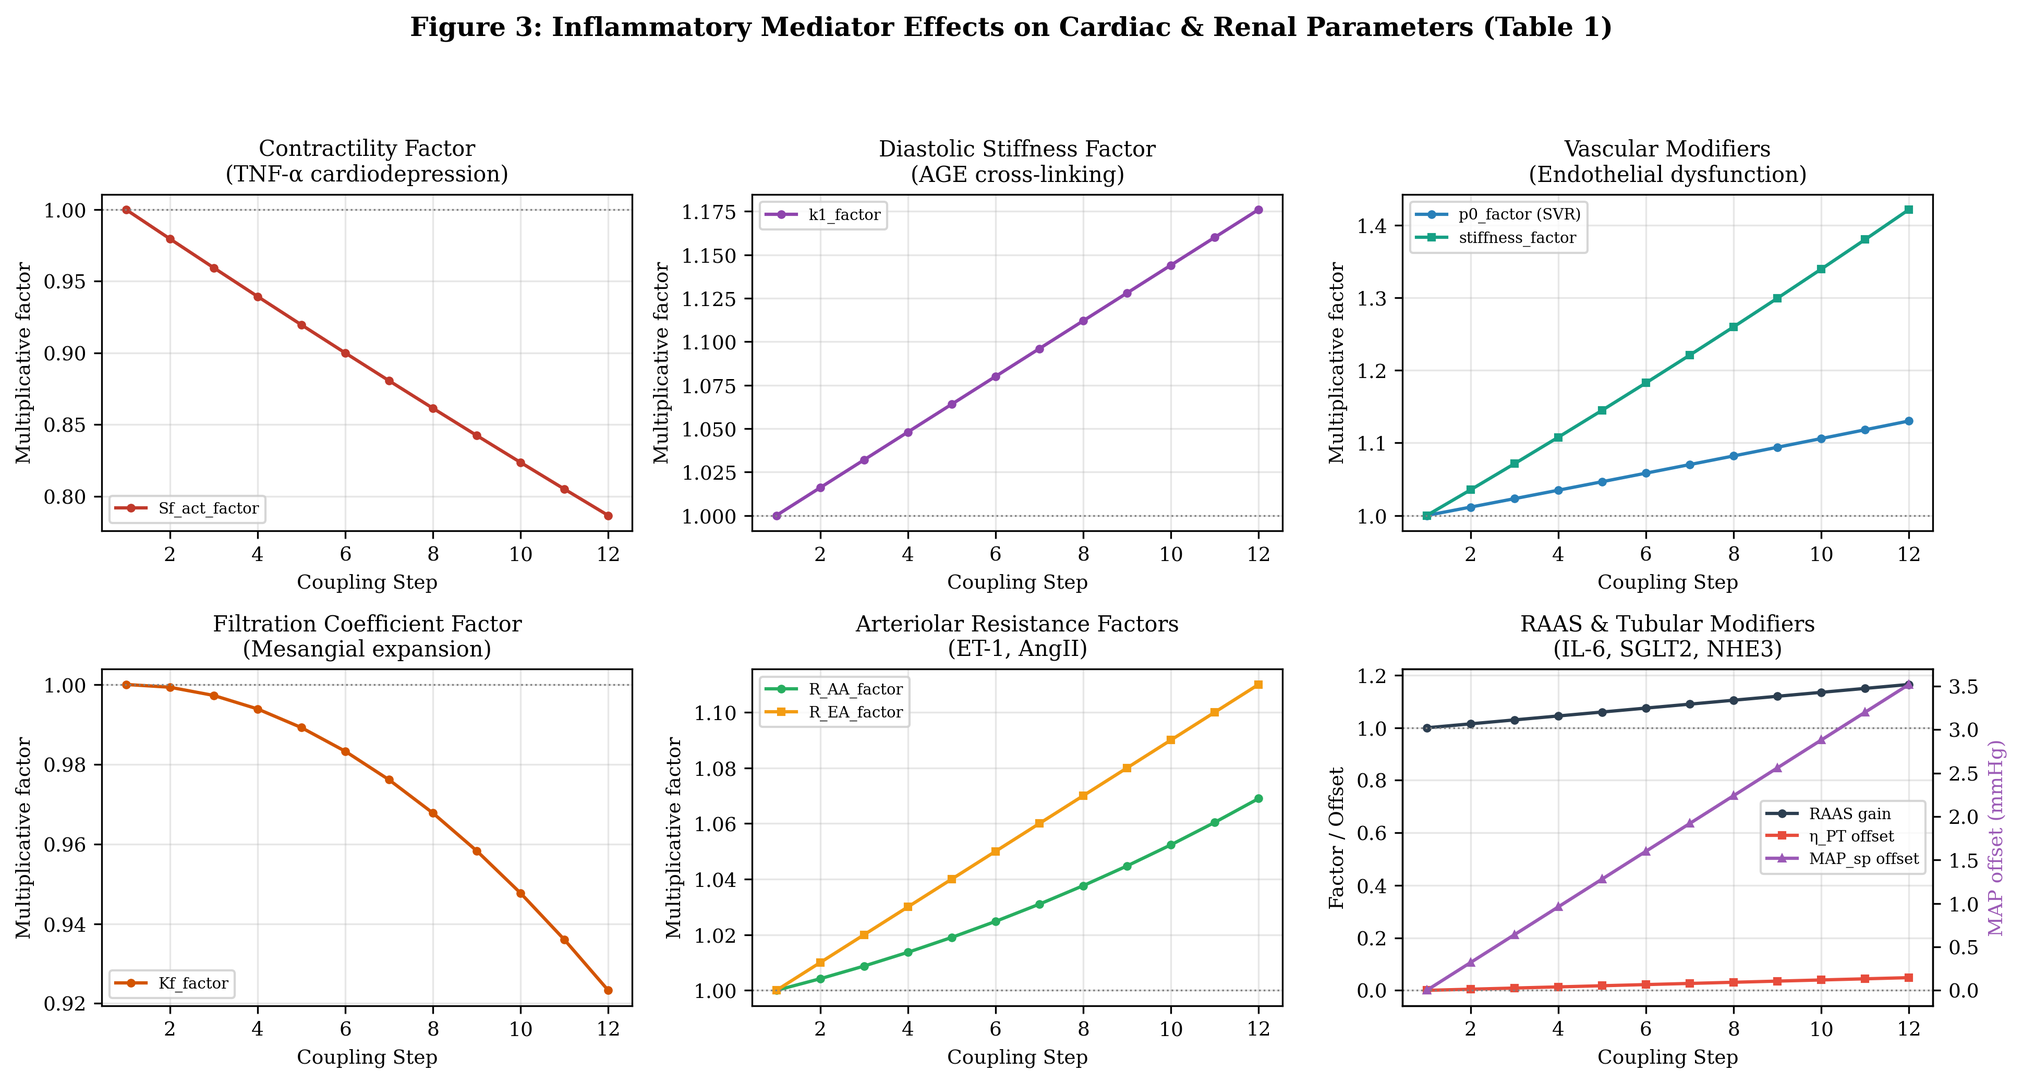
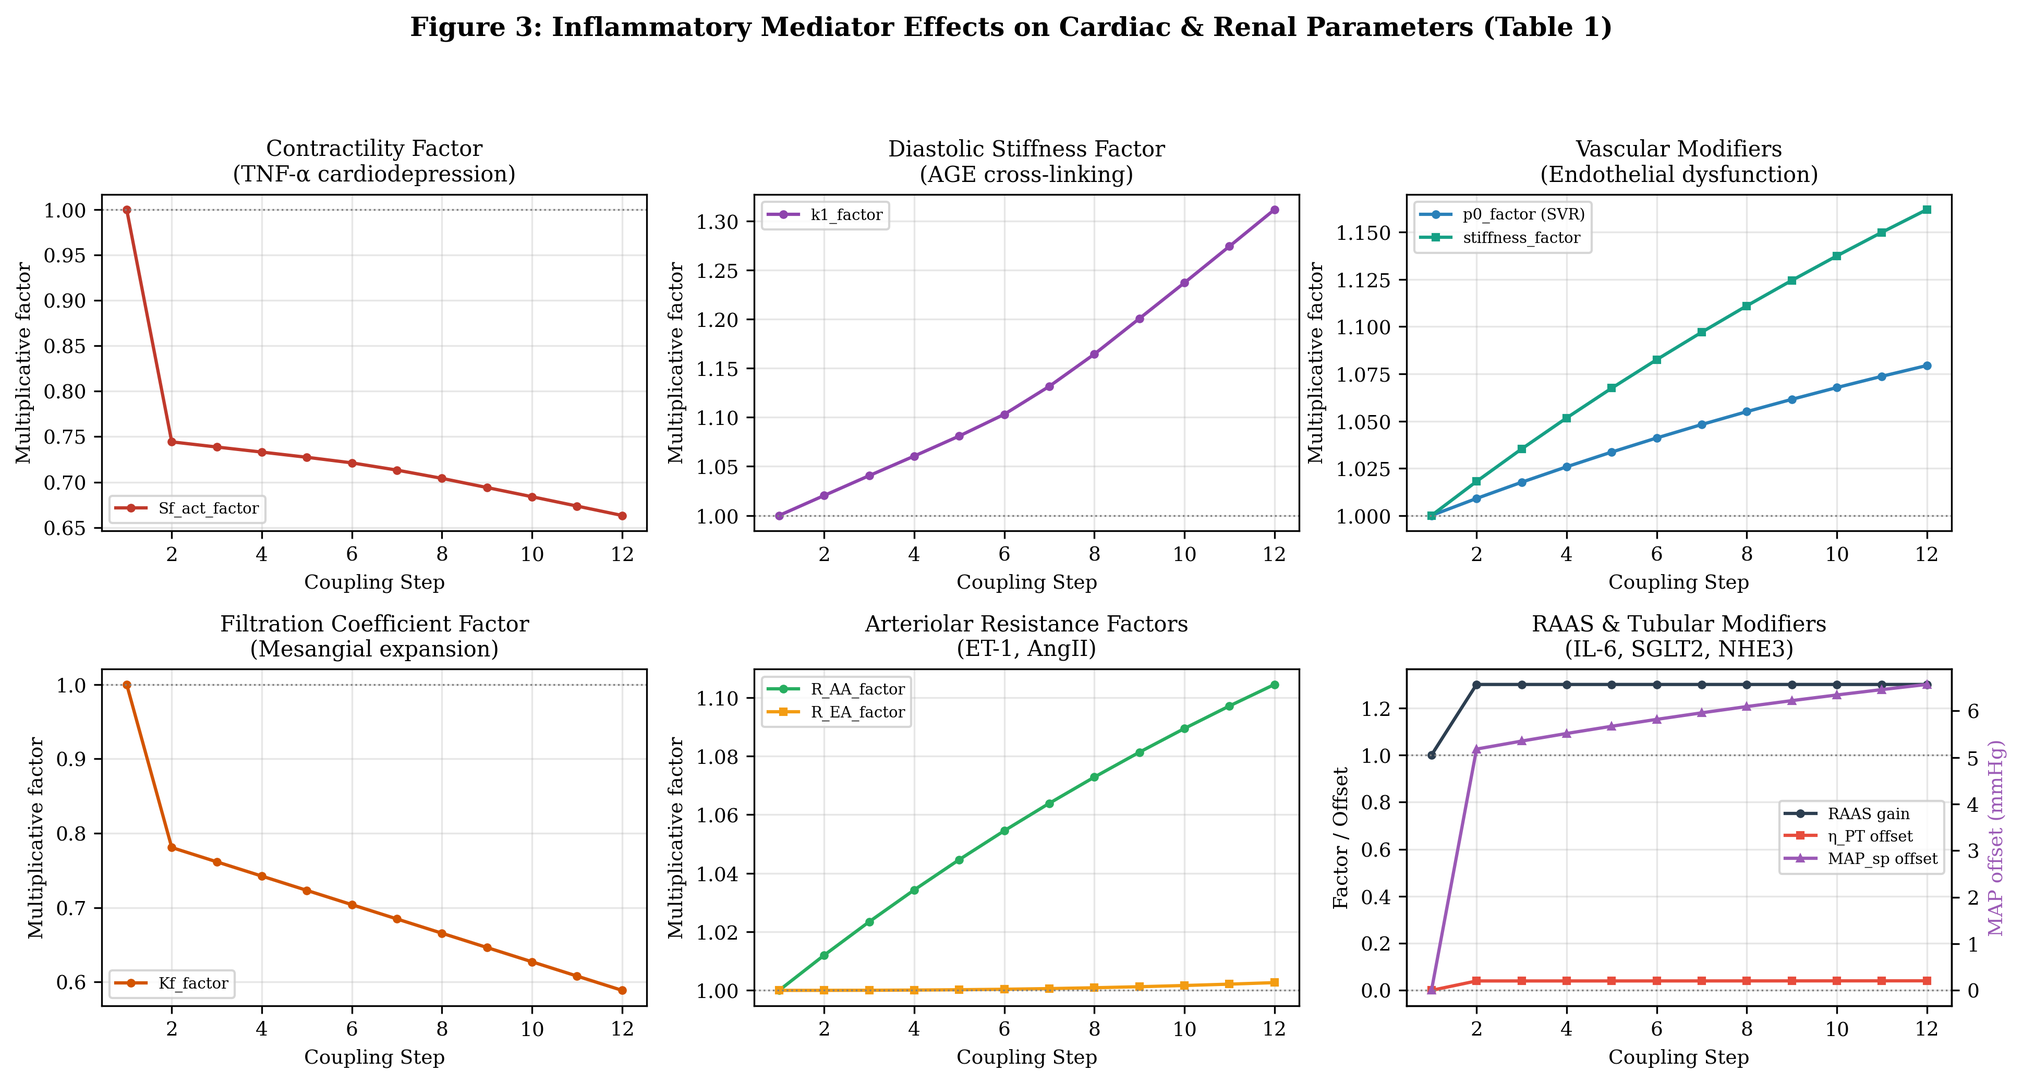
full ODE implemented. inflammation scale now taking inputs from the organs.

diff --git a/cardiorenal_coupling.py b/cardiorenal_coupling.py
@@ -797,30 +797,28 @@ class InflammatoryState:
     eta_PT_offset: float = 0.0        # Proximal tubule Na reabsorption offset (Table 1: NHE3 + SGLT2 effects)
     MAP_setpoint_offset: float = 0.0  # Pressure-natriuresis curve rightward shift [mmHg] (Table 1)
 
-    # ── Future dynamic state variables (for full ODE version) ────────────
-    # These are commented out in the simple version but ready for
-    # activation when the full dynamic inflammatory model is enabled.
-    # myocardial_fibrosis_volume: float = 0.0           # Fraction of myocardium replaced by fibrosis
-    # endothelial_dysfunction_index: float = 0.0        # NO bioavailability reduction
-    # renal_tubulointerstitial_fibrosis: float = 0.0    # Fraction of nephrons lost to fibrosis
-    # AGE_accumulation: float = 0.0                     # Advanced glycation end-product burden
+    # ── Dynamic state variables (full ODE version) ───────────────────────
+    # These evolve via Euler integration in update_inflammatory_state()
+    # when use_ode=True. Sources: organ damage signals. Sinks: clearance.
+    myocardial_fibrosis_volume: float = 0.0           # Fraction of myocardium replaced by fibrosis [0-1]
+    endothelial_dysfunction_index: float = 0.0        # NO bioavailability reduction [0-1]
+    renal_tubulointerstitial_fibrosis: float = 0.0    # Fraction of nephrons lost to fibrosis [0-0.95]
+    AGE_accumulation: float = 0.0                     # Advanced glycation end-product burden [0+]
 
 
 def update_inflammatory_state(
     state: InflammatoryState,
     inflammation_scale: float,
     diabetes_scale: float,
-    # ── Inputs from heart/kidney for future ODE version ──────────────
-    # These parameters are commented out in the simple version but show
-    # the interface for the full dynamic ODE model where organ damage
-    # signals drive inflammatory state evolution.
-    # GFR: float = 120.0,           # kidney damage -> uremic inflammation
-    # EDP: float = 10.0,            # cardiac congestion -> inflammation
-    # aldosterone_factor: float = 1.0,  # RAAS -> pro-inflammatory
-    # P_glom: float = 60.0,         # glomerular pressure -> podocyte stress
-    # CVP: float = 3.0,             # venous congestion -> renal back-pressure
-    # MAP: float = 93.0,            # mean arterial pressure -> shear stress
-    # dt_hours: float = 6.0,        # integration timestep
+    # ── Inputs from heart/kidney for ODE version ─────────────────────
+    GFR: float = 120.0,           # kidney damage -> uremic inflammation
+    EDP: float = 10.0,            # cardiac congestion -> inflammation
+    aldosterone_factor: float = 1.0,  # RAAS -> pro-inflammatory
+    P_glom: float = 60.0,         # glomerular pressure -> podocyte stress
+    CVP: float = 3.0,             # venous congestion -> renal back-pressure
+    MAP: float = 93.0,            # mean arterial pressure -> shear stress
+    dt_hours: float = 6.0,        # integration timestep
+    use_ode: bool = False,        # if True, use full ODE; if False, use simple parametric
 ) -> InflammatoryState:
     """
     Update the inflammatory mediator layer.
@@ -988,119 +986,105 @@ def update_inflammatory_state(
     state.MAP_setpoint_offset = max(5.0 * infl, 8.0 * diab)
 
     # ==================================================================
-    # FULL ODE VERSION -- commented out for iterative verification
+    # FULL ODE VERSION — organ damage signals drive inflammation
     # ==================================================================
-    #
-    # When ready to activate, uncomment this block, enable the state
-    # variables in InflammatoryState, and pass GFR/EDP/aldosterone/etc
-    # from the coupling loop. This version models inflammation as a
-    # dynamic state variable with sources (organ damage signals) and
-    # sinks (immune clearance), reaching steady state over weeks-months.
-    #
-    # # ── Rate constants (to be calibrated via sensitivity analysis) ──
-    # k_uremic = 0.01           # uremic toxin -> inflammation [1/hr per (1/GFR)]
-    # k_congestion = 0.005      # cardiac congestion -> inflammation [1/hr per mmHg]
-    # k_AGE = 0.02              # AGE accumulation -> inflammation via RAGE [1/hr]
-    # k_aldo = 0.008            # aldosterone excess -> pro-inflammatory [1/hr]
-    # k_clearance = 0.05        # hepatic / immune clearance [1/hr]
-    # k_AGE_formation = 0.001   # diabetes -> AGE accumulation rate [1/hr]
-    # k_AGE_turnover = 0.0005   # AGE cross-link turnover (very slow) [1/hr]
-    # k_fibrosis_inflam = 0.003 # inflammation -> myocardial fibrosis [1/hr]
-    # k_fibrosis_mech = 0.002   # mechanical stress -> myocardial fibrosis [1/hr per EDP ratio]
-    # k_fibrosis_turnover = 0.001  # slow collagen remodeling [1/hr]
-    # k_endoth_inflam = 0.01    # inflammation -> endothelial dysfunction [1/hr]
-    # k_endoth_shear = 0.002    # hypertension -> endothelial damage [1/hr per mmHg]
-    # k_endoth_recovery = 0.008 # endothelial repair (NO restoration) [1/hr]
-    # k_renal_inflam = 0.004    # inflammation -> tubulointerstitial fibrosis [1/hr]
-    # k_renal_pressure = 0.002  # glomerular hypertension -> podocyte loss [1/hr per mmHg]
-    # k_renal_congestion = 0.003  # venous congestion -> renal fibrosis [1/hr per mmHg]
-    #
-    # # ── Sources of systemic inflammation ────────────────────────────
-    # # Kidney -> inflammation: uremic toxin accumulation
-    # # (indoxyl sulfate, p-cresyl sulfate, TMAO)
-    # uremic_source = k_uremic * max(0.0, 1.0 / max(GFR, 5.0) - 1.0 / 120.0)
-    #
-    # # Heart -> inflammation: venous congestion, elevated EDP
-    # congestion_source = k_congestion * max(0.0, EDP - 10.0)
-    #
-    # # Diabetes -> inflammation: AGE-RAGE signaling
-    # AGE_source = k_AGE * state.AGE_accumulation
-    #
-    # # RAAS -> inflammation: aldosterone is independently pro-inflammatory
-    # # (mechanistic basis for MRA therapy -- TOPCAT, FINEARTS-HF)
-    # aldo_source = k_aldo * max(0.0, aldosterone_factor - 1.0)
-    #
-    # # ── Inflammatory index ODE (logistic saturation ceiling) ────────
-    # inflam_max = 1.0
-    # d_inflam = (
-    #     uremic_source + congestion_source + AGE_source + aldo_source
-    #     - k_clearance * state.systemic_inflammatory_index
-    # ) * (1.0 - state.systemic_inflammatory_index / inflam_max)
-    # state.systemic_inflammatory_index += d_inflam * dt_hours
-    # state.systemic_inflammatory_index = np.clip(
-    #     state.systemic_inflammatory_index, 0.0, 1.0)
-    #
-    # # ── AGE accumulation (very slow timescale, diabetes-driven) ─────
-    # d_AGE = (k_AGE_formation * diab
-    #          - k_AGE_turnover * state.AGE_accumulation)
-    # state.AGE_accumulation += d_AGE * dt_hours
-    # state.AGE_accumulation = max(0.0, state.AGE_accumulation)
-    #
-    # # ── Myocardial fibrosis (slow, inflammation + mechanical) ───────
-    # # Replaces fixed p[96]+p[97] from the original model.
-    # # Inflammation: uremic toxins drive fibrosis through TGF-beta
-    # # Mechanical: elevated EDP / wall stress -> fibroblast activation
-    # d_fibrosis = (
-    #     k_fibrosis_inflam * state.systemic_inflammatory_index
-    #     + k_fibrosis_mech * max(0.0, EDP / 12.0 - 1.0)
-    #     - k_fibrosis_turnover * state.myocardial_fibrosis_volume
-    # )
-    # state.myocardial_fibrosis_volume += d_fibrosis * dt_hours
-    # state.myocardial_fibrosis_volume = np.clip(
-    #     state.myocardial_fibrosis_volume, 0.0, 1.0)
-    #
-    # # ── Endothelial dysfunction ──────────────────────────────────────
-    # # Captures NO bioavailability reduction.  Affects peripheral
-    # # resistance, renal afferent arteriole tone, and coronary
-    # # microvascular function.
-    # d_endoth = (
-    #     k_endoth_inflam * state.systemic_inflammatory_index
-    #     + k_endoth_shear * max(0.0, MAP - 100.0)
-    #     - k_endoth_recovery * state.endothelial_dysfunction_index
-    # )
-    # state.endothelial_dysfunction_index += d_endoth * dt_hours
-    # state.endothelial_dysfunction_index = np.clip(
-    #     state.endothelial_dysfunction_index, 0.0, 1.0)
-    #
-    # # ── Renal tubulointerstitial fibrosis ────────────────────────────
-    # # Drives nephron loss.  No negative term: nephron loss is
-    # # irreversible, matching clinical reality.
-    # d_renal_fib = (
-    #     k_renal_inflam * state.systemic_inflammatory_index
-    #     + k_renal_pressure * max(0.0, P_glom - 65.0)
-    #     + k_renal_congestion * max(0.0, CVP - 8.0)
-    # )
-    # state.renal_tubulointerstitial_fibrosis += d_renal_fib * dt_hours
-    # state.renal_tubulointerstitial_fibrosis = min(
-    #     state.renal_tubulointerstitial_fibrosis, 0.95)
-    #
-    # # ── Derive modifier effects from dynamic state ──────────────────
-    # infl = state.systemic_inflammatory_index
-    # fibrosis = state.myocardial_fibrosis_volume
-    # endoth = state.endothelial_dysfunction_index
-    # renal_fib = state.renal_tubulointerstitial_fibrosis
-    # AGE = state.AGE_accumulation
-    #
-    # state.Sf_act_factor = (1.0 - 0.25 * infl) * (1.0 - 0.15 * fibrosis)
-    # state.p0_factor = 1.0 + 0.15 * endoth + 0.10 * AGE
-    # state.stiffness_factor = 1.0 + 0.30 * endoth + 0.50 * AGE
-    # state.passive_k1_factor = 1.0 + 0.40 * fibrosis + 0.30 * AGE
-    # state.Kf_factor = max((1.0 - 0.20 * infl) * (1.0 - renal_fib), 0.05)
-    # state.R_AA_factor = 1.0 + 0.20 * endoth
-    # state.R_EA_factor = 1.0 + 0.25 * AGE
-    # state.RAAS_gain_factor = 1.0 + 0.30 * infl
-    # state.eta_PT_offset = 0.04 * infl + 0.06 * AGE
-    # state.MAP_setpoint_offset = 5.0 * infl + 3.0 * endoth
+    if use_ode:
+        # ── Rate constants ───────────────────────────────────────────
+        k_uremic = 0.01           # uremic toxin -> inflammation [1/hr per (1/GFR)]
+        k_congestion = 0.005      # cardiac congestion -> inflammation [1/hr per mmHg]
+        k_AGE = 0.02              # AGE accumulation -> inflammation via RAGE [1/hr]
+        k_aldo = 0.008            # aldosterone excess -> pro-inflammatory [1/hr]
+        k_clearance = 0.05        # hepatic / immune clearance [1/hr]
+        k_AGE_formation = 0.001   # diabetes -> AGE accumulation rate [1/hr]
+        k_AGE_turnover = 0.0005   # AGE cross-link turnover (very slow) [1/hr]
+        k_fibrosis_inflam = 0.003 # inflammation -> myocardial fibrosis [1/hr]
+        k_fibrosis_mech = 0.002   # mechanical stress -> myocardial fibrosis [1/hr per EDP ratio]
+        k_fibrosis_turnover = 0.001  # slow collagen remodeling [1/hr]
+        k_endoth_inflam = 0.01    # inflammation -> endothelial dysfunction [1/hr]
+        k_endoth_shear = 0.002    # hypertension -> endothelial damage [1/hr per mmHg]
+        k_endoth_recovery = 0.008 # endothelial repair (NO restoration) [1/hr]
+        k_renal_inflam = 0.004    # inflammation -> tubulointerstitial fibrosis [1/hr]
+        k_renal_pressure = 0.002  # glomerular hypertension -> podocyte loss [1/hr per mmHg]
+        k_renal_congestion = 0.003  # venous congestion -> renal fibrosis [1/hr per mmHg]
+
+        # ── Sources of systemic inflammation ─────────────────────────
+        # Kidney -> inflammation: uremic toxin accumulation
+        # (indoxyl sulfate, p-cresyl sulfate, TMAO)
+        uremic_source = k_uremic * max(0.0, 1.0 / max(GFR, 5.0) - 1.0 / 120.0)
+
+        # Heart -> inflammation: venous congestion, elevated EDP
+        congestion_source = k_congestion * max(0.0, EDP - 10.0)
+
+        # Diabetes -> inflammation: AGE-RAGE signaling
+        AGE_source = k_AGE * state.AGE_accumulation
+
+        # RAAS -> inflammation: aldosterone is independently pro-inflammatory
+        # (mechanistic basis for MRA therapy -- TOPCAT, FINEARTS-HF)
+        aldo_source = k_aldo * max(0.0, aldosterone_factor - 1.0)
+
+        # ── Inflammatory index ODE (logistic saturation ceiling) ─────
+        inflam_max = 1.0
+        d_inflam = (
+            uremic_source + congestion_source + AGE_source + aldo_source
+            - k_clearance * state.systemic_inflammatory_index
+        ) * (1.0 - state.systemic_inflammatory_index / inflam_max)
+        state.systemic_inflammatory_index += d_inflam * dt_hours
+        state.systemic_inflammatory_index = np.clip(
+            state.systemic_inflammatory_index, 0.0, 1.0)
+
+        # ── AGE accumulation (very slow timescale, diabetes-driven) ──
+        d_AGE = (k_AGE_formation * diab
+                 - k_AGE_turnover * state.AGE_accumulation)
+        state.AGE_accumulation += d_AGE * dt_hours
+        state.AGE_accumulation = max(0.0, state.AGE_accumulation)
+
+        # ── Myocardial fibrosis (slow, inflammation + mechanical) ────
+        d_fibrosis = (
+            k_fibrosis_inflam * state.systemic_inflammatory_index
+            + k_fibrosis_mech * max(0.0, EDP / 12.0 - 1.0)
+            - k_fibrosis_turnover * state.myocardial_fibrosis_volume
+        )
+        state.myocardial_fibrosis_volume += d_fibrosis * dt_hours
+        state.myocardial_fibrosis_volume = np.clip(
+            state.myocardial_fibrosis_volume, 0.0, 1.0)
+
+        # ── Endothelial dysfunction ──────────────────────────────────
+        d_endoth = (
+            k_endoth_inflam * state.systemic_inflammatory_index
+            + k_endoth_shear * max(0.0, MAP - 100.0)
+            - k_endoth_recovery * state.endothelial_dysfunction_index
+        )
+        state.endothelial_dysfunction_index += d_endoth * dt_hours
+        state.endothelial_dysfunction_index = np.clip(
+            state.endothelial_dysfunction_index, 0.0, 1.0)
+
+        # ── Renal tubulointerstitial fibrosis (irreversible) ─────────
+        d_renal_fib = (
+            k_renal_inflam * state.systemic_inflammatory_index
+            + k_renal_pressure * max(0.0, P_glom - 65.0)
+            + k_renal_congestion * max(0.0, CVP - 8.0)
+        )
+        state.renal_tubulointerstitial_fibrosis += d_renal_fib * dt_hours
+        state.renal_tubulointerstitial_fibrosis = min(
+            state.renal_tubulointerstitial_fibrosis, 0.95)
+
+        # ── Derive modifier effects from dynamic state ───────────────
+        infl = state.systemic_inflammatory_index
+        fibrosis = state.myocardial_fibrosis_volume
+        endoth = state.endothelial_dysfunction_index
+        renal_fib = state.renal_tubulointerstitial_fibrosis
+        AGE = state.AGE_accumulation
+
+        state.Sf_act_factor = (1.0 - 0.25 * infl) * (1.0 - 0.15 * fibrosis)
+        state.p0_factor = 1.0 + 0.15 * endoth + 0.10 * AGE
+        state.stiffness_factor = 1.0 + 0.30 * endoth + 0.50 * AGE
+        state.passive_k1_factor = 1.0 + 0.40 * fibrosis + 0.30 * AGE
+        state.Kf_factor = max((1.0 - 0.20 * infl) * (1.0 - renal_fib), 0.05)
+        state.R_AA_factor = 1.0 + 0.20 * endoth
+        state.R_EA_factor = 1.0 + 0.25 * AGE
+        state.RAAS_gain_factor = 1.0 + 0.30 * infl
+        state.eta_PT_offset = 0.04 * infl + 0.06 * AGE
+        state.MAP_setpoint_offset = 5.0 * infl + 3.0 * endoth
 
     return state
 
@@ -1830,6 +1814,7 @@ def run_coupled_simulation(
     stiffness_schedule: Optional[List[float]] = None,
     inflammation_schedule: Optional[List[float]] = None,
     diabetes_schedule: Optional[List[float]] = None,
+    use_ode: bool = False,
 ) -> Dict:
     """
     Run the coupled cardiorenal simulation (Algorithm 1, Section 3.3).
@@ -1945,8 +1930,12 @@ def run_coupled_simulation(
     print("  Heart : CircAdapt VanOsta2024")
     print("  Kidney: Hallow et al. 2017 renal module")
     if has_inflammation or has_diabetes:
-        print("  Mediator: Inflammatory layer (parametric scaling)")
+        print(f"  Mediator: Inflammatory layer ({'ODE' if use_ode else 'parametric'})")
     print("=" * 70)
+
+    # Track previous-step hemodynamics for ODE inflammatory model
+    prev_EDP = 10.0    # baseline end-diastolic pressure [mmHg]
+    prev_MAP = 86.4    # baseline MAP [mmHg]
 
     # ══════════════════════════════════════════════════════════════════
     # MAIN COUPLING LOOP (Algorithm 1, Steps 0-9)
@@ -1973,9 +1962,16 @@ def run_coupled_simulation(
         # ── Step 0: Update inflammatory mediator layer ───────────────
         # (Section 3.4, Table 1)
         # Recompute all modifier factors based on current inflammation
-        # and diabetes severity. These factors will be applied to both
-        # cardiac and renal parameters in subsequent steps.
-        ist = update_inflammatory_state(ist, infl, diab)
+        # and diabetes severity. In ODE mode, organ damage signals from
+        # the previous step drive inflammation dynamics.
+        ist = update_inflammatory_state(
+            ist, infl, diab,
+            GFR=renal.GFR, EDP=prev_EDP,
+            aldosterone_factor=1.0, P_glom=renal.P_glom,
+            CVP=prev_MAP * 0.05,  # approximate CVP from MAP
+            MAP=prev_MAP, dt_hours=dt_renal_hours,
+            use_ode=use_ode,
+        )
 
         # ── Step 1: Apply inflammatory modifiers to heart ────────────
         # (Section 3.4 -> Section 3.1)
@@ -2024,6 +2020,15 @@ def run_coupled_simulation(
         # currently applied perturbations.
         print("  [Heart]  Running CircAdapt to steady state ...")
         hemo = heart.run_to_steady_state()
+
+        # Update previous-step hemodynamics for ODE inflammatory model
+        prev_MAP = hemo['MAP']
+        try:
+            p_lv = hemo['p_LV']
+            v_lv = hemo['V_LV']
+            prev_EDP = float(p_lv[np.argmax(v_lv)])
+        except Exception:
+            prev_EDP = hemo.get('Pven', 5.0) + 5.0
 
         print(f"  [Heart]  MAP={hemo['MAP']:.1f}  "
               f"SBP/DBP={hemo['SBP']:.0f}/{hemo['DBP']:.0f}  "

diff --git a/research_figures.py b/research_figures.py
@@ -47,13 +47,22 @@ healthy = run_coupled_simulation(
     diabetes_schedule=[0.0]*N_STEPS,
 )
 
-print("Running progressive disease (Sf=1→0.5, Kf=1→0.4, infl=0→0.7)...")
-# Progressive Weibull-like deterioration over 12 steps
-sf_sched  = [max(0.5, 1.0 - 0.045*i) for i in range(N_STEPS)]   # 1.0 → 0.50
-kf_sched  = [max(0.4, 1.0 - 0.055*i) for i in range(N_STEPS)]   # 1.0 → 0.40
-k1_sched  = [min(2.5, 1.0 + 0.12*i)  for i in range(N_STEPS)]   # 1.0 → 2.32
-infl_sched = [min(0.7, 0.05*i)        for i in range(N_STEPS)]   # 0.0 → 0.55
-diab_sched = [min(0.5, 0.04*i)        for i in range(N_STEPS)]   # 0.0 → 0.44
+print("Running progressive disease (Weibull deterioration)...")
+# Weibull hazard functions (Section 3.3) for organ deterioration
+# D(t) = 1 - exp(-(t/lambda)^k)
+# Cardiac: lambda=8 months, k=2.5 (accelerating failure)
+# Renal:   lambda=10 months, k=2.0 (slightly slower)
+months = np.arange(N_STEPS)  # each coupling step = 1 month
+lambda_c, k_c = 8.0, 2.5     # cardiac Weibull params
+lambda_r, k_r = 10.0, 2.0    # renal Weibull params
+D_c = 1.0 - np.exp(-((months / lambda_c) ** k_c))  # cardiac damage [0,1]
+D_r = 1.0 - np.exp(-((months / lambda_r) ** k_r))  # renal damage [0,1]
+
+sf_sched  = np.maximum(0.3, 1.0 - D_c * 0.5).tolist()     # Sf: 1.0 → 0.5 (contractility loss)
+kf_sched  = np.maximum(0.1, 1.0 - D_r * 0.8).tolist()     # Kf: 1.0 → 0.2 (nephron loss)
+k1_sched  = (1.0 + D_c * 2.0).tolist()                     # k1: 1.0 → 3.0 (stiffening)
+infl_sched = (D_c * 0.4 + D_r * 0.3).tolist()              # inflammation driven by both organ damage
+diab_sched = (D_r * 0.5).tolist()                           # diabetes driven by renal damage
 
 disease = run_coupled_simulation(
     n_steps=N_STEPS, dt_renal_hours=6.0,
@@ -62,6 +71,7 @@ disease = run_coupled_simulation(
     stiffness_schedule=k1_sched,
     inflammation_schedule=infl_sched,
     diabetes_schedule=diab_sched,
+    use_ode=True,
 )
 
 steps = np.arange(1, N_STEPS + 1)
